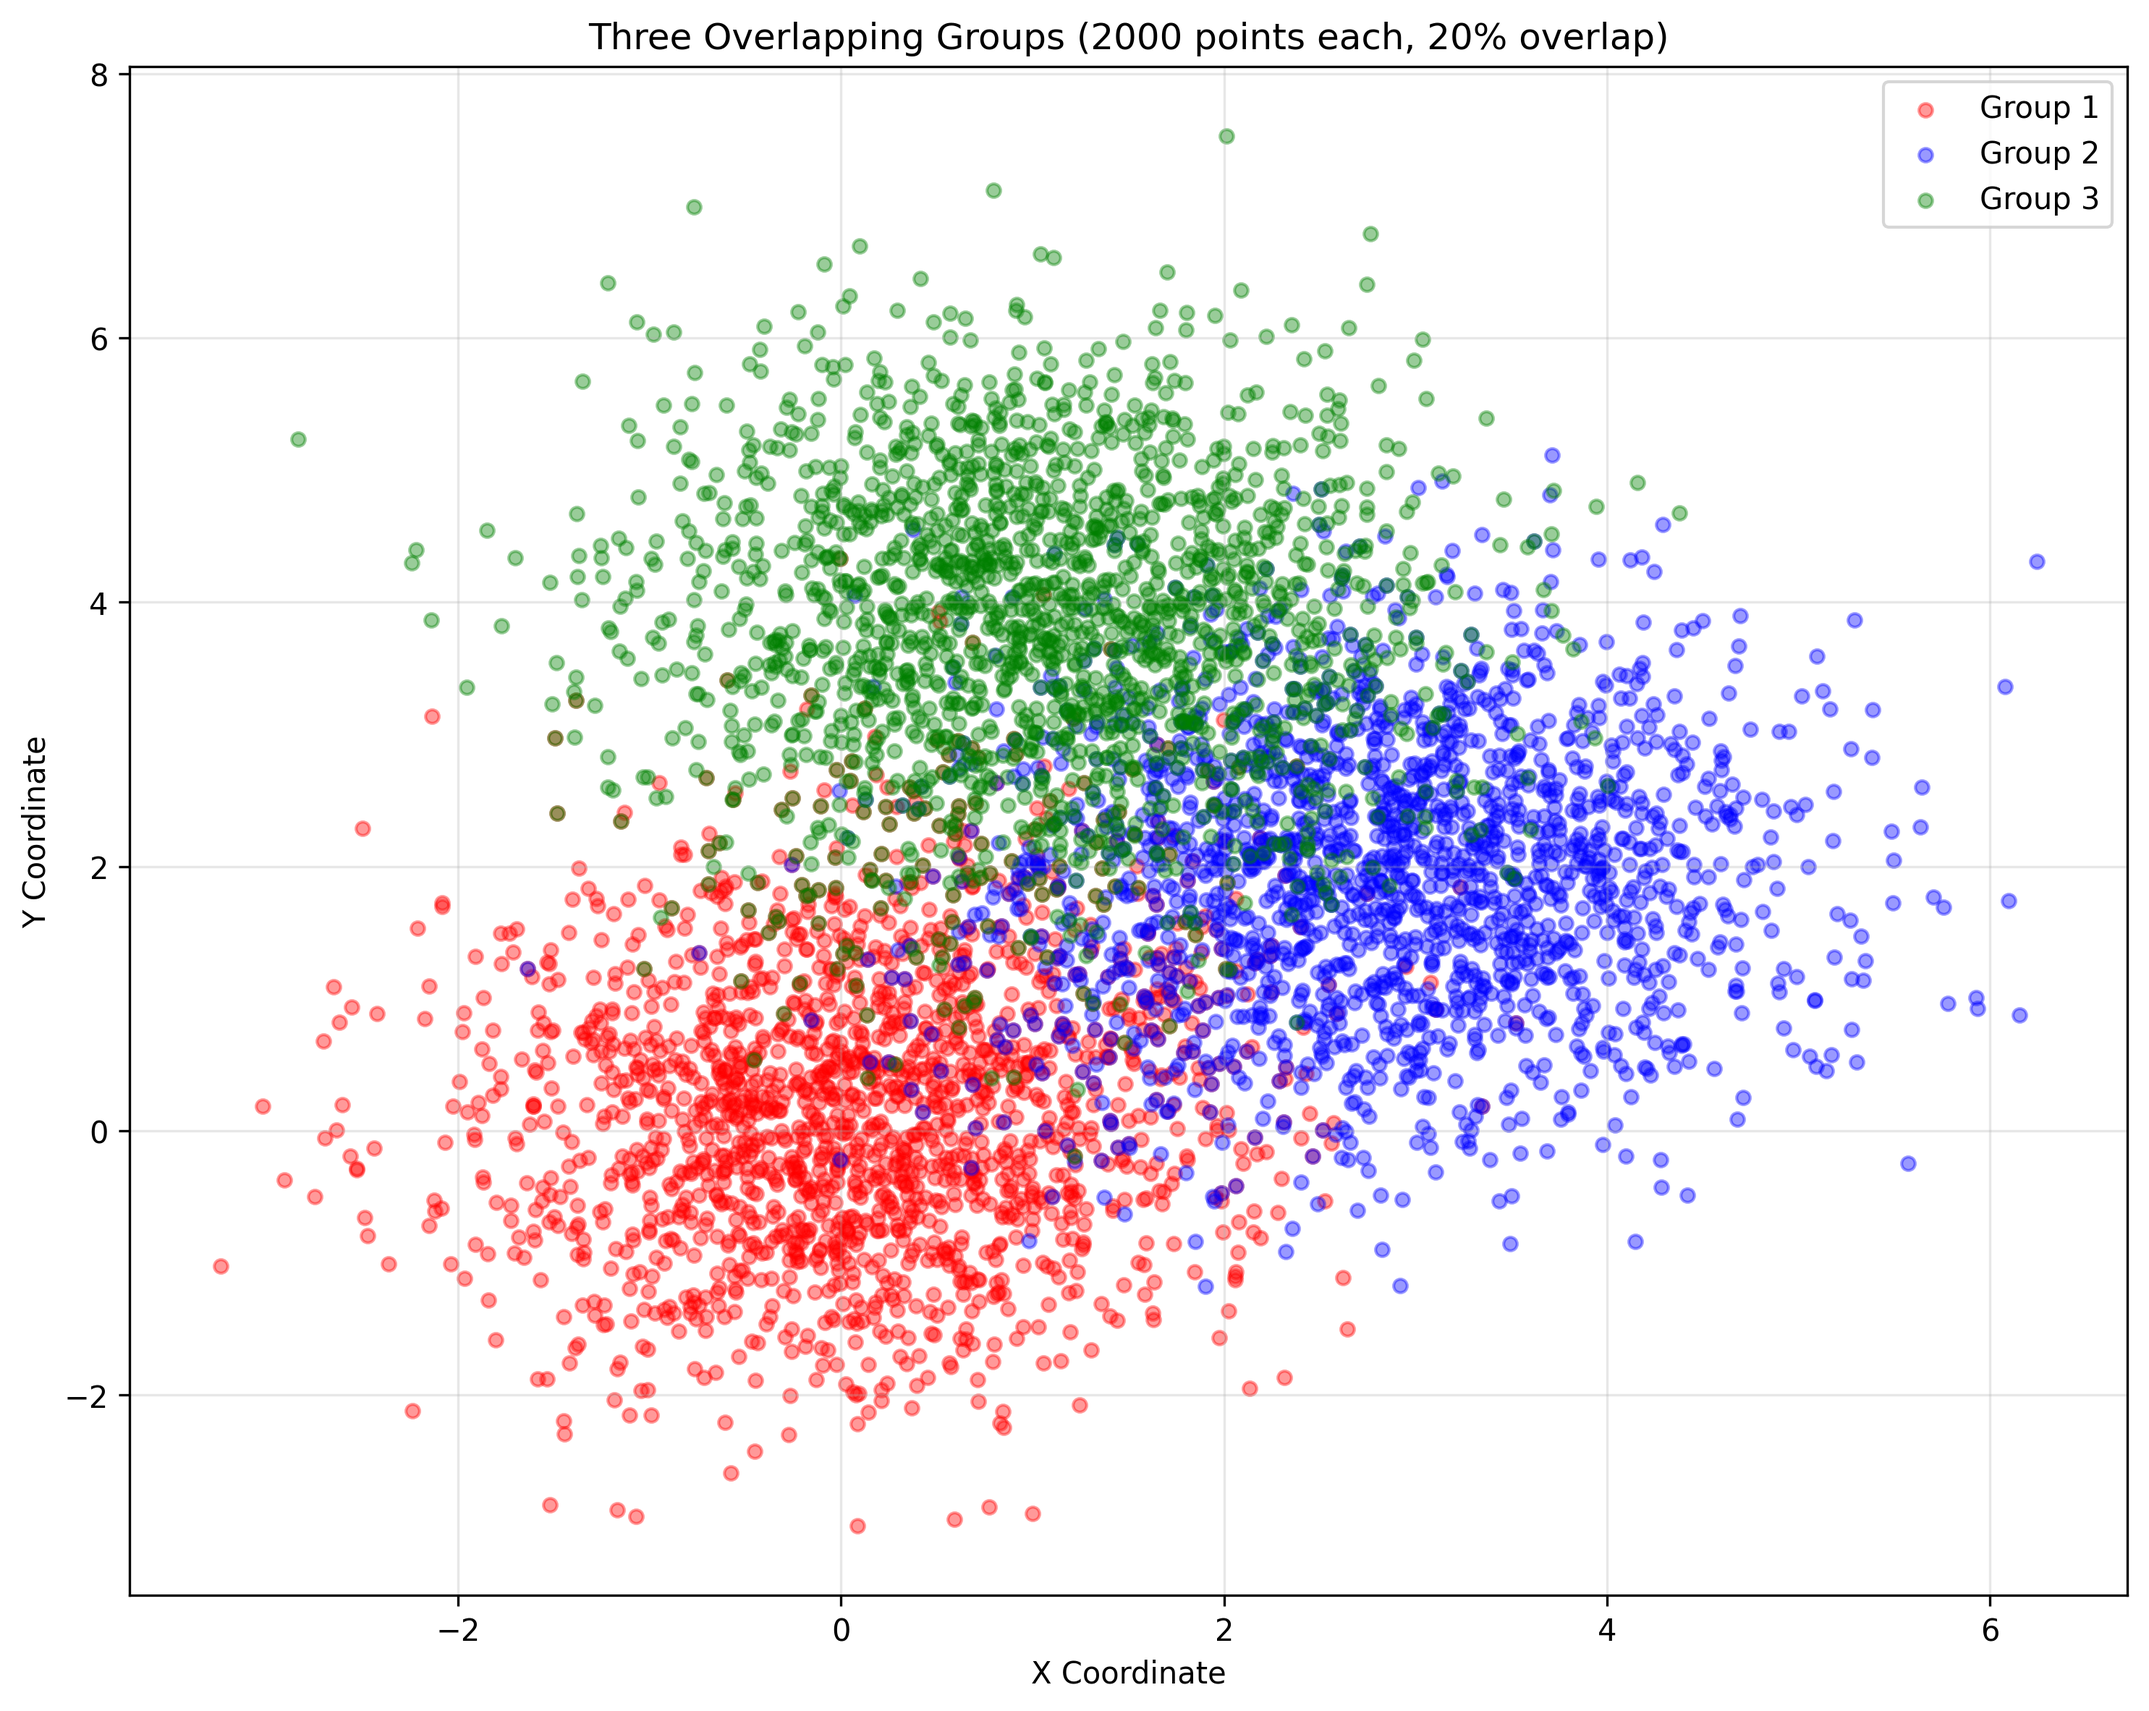
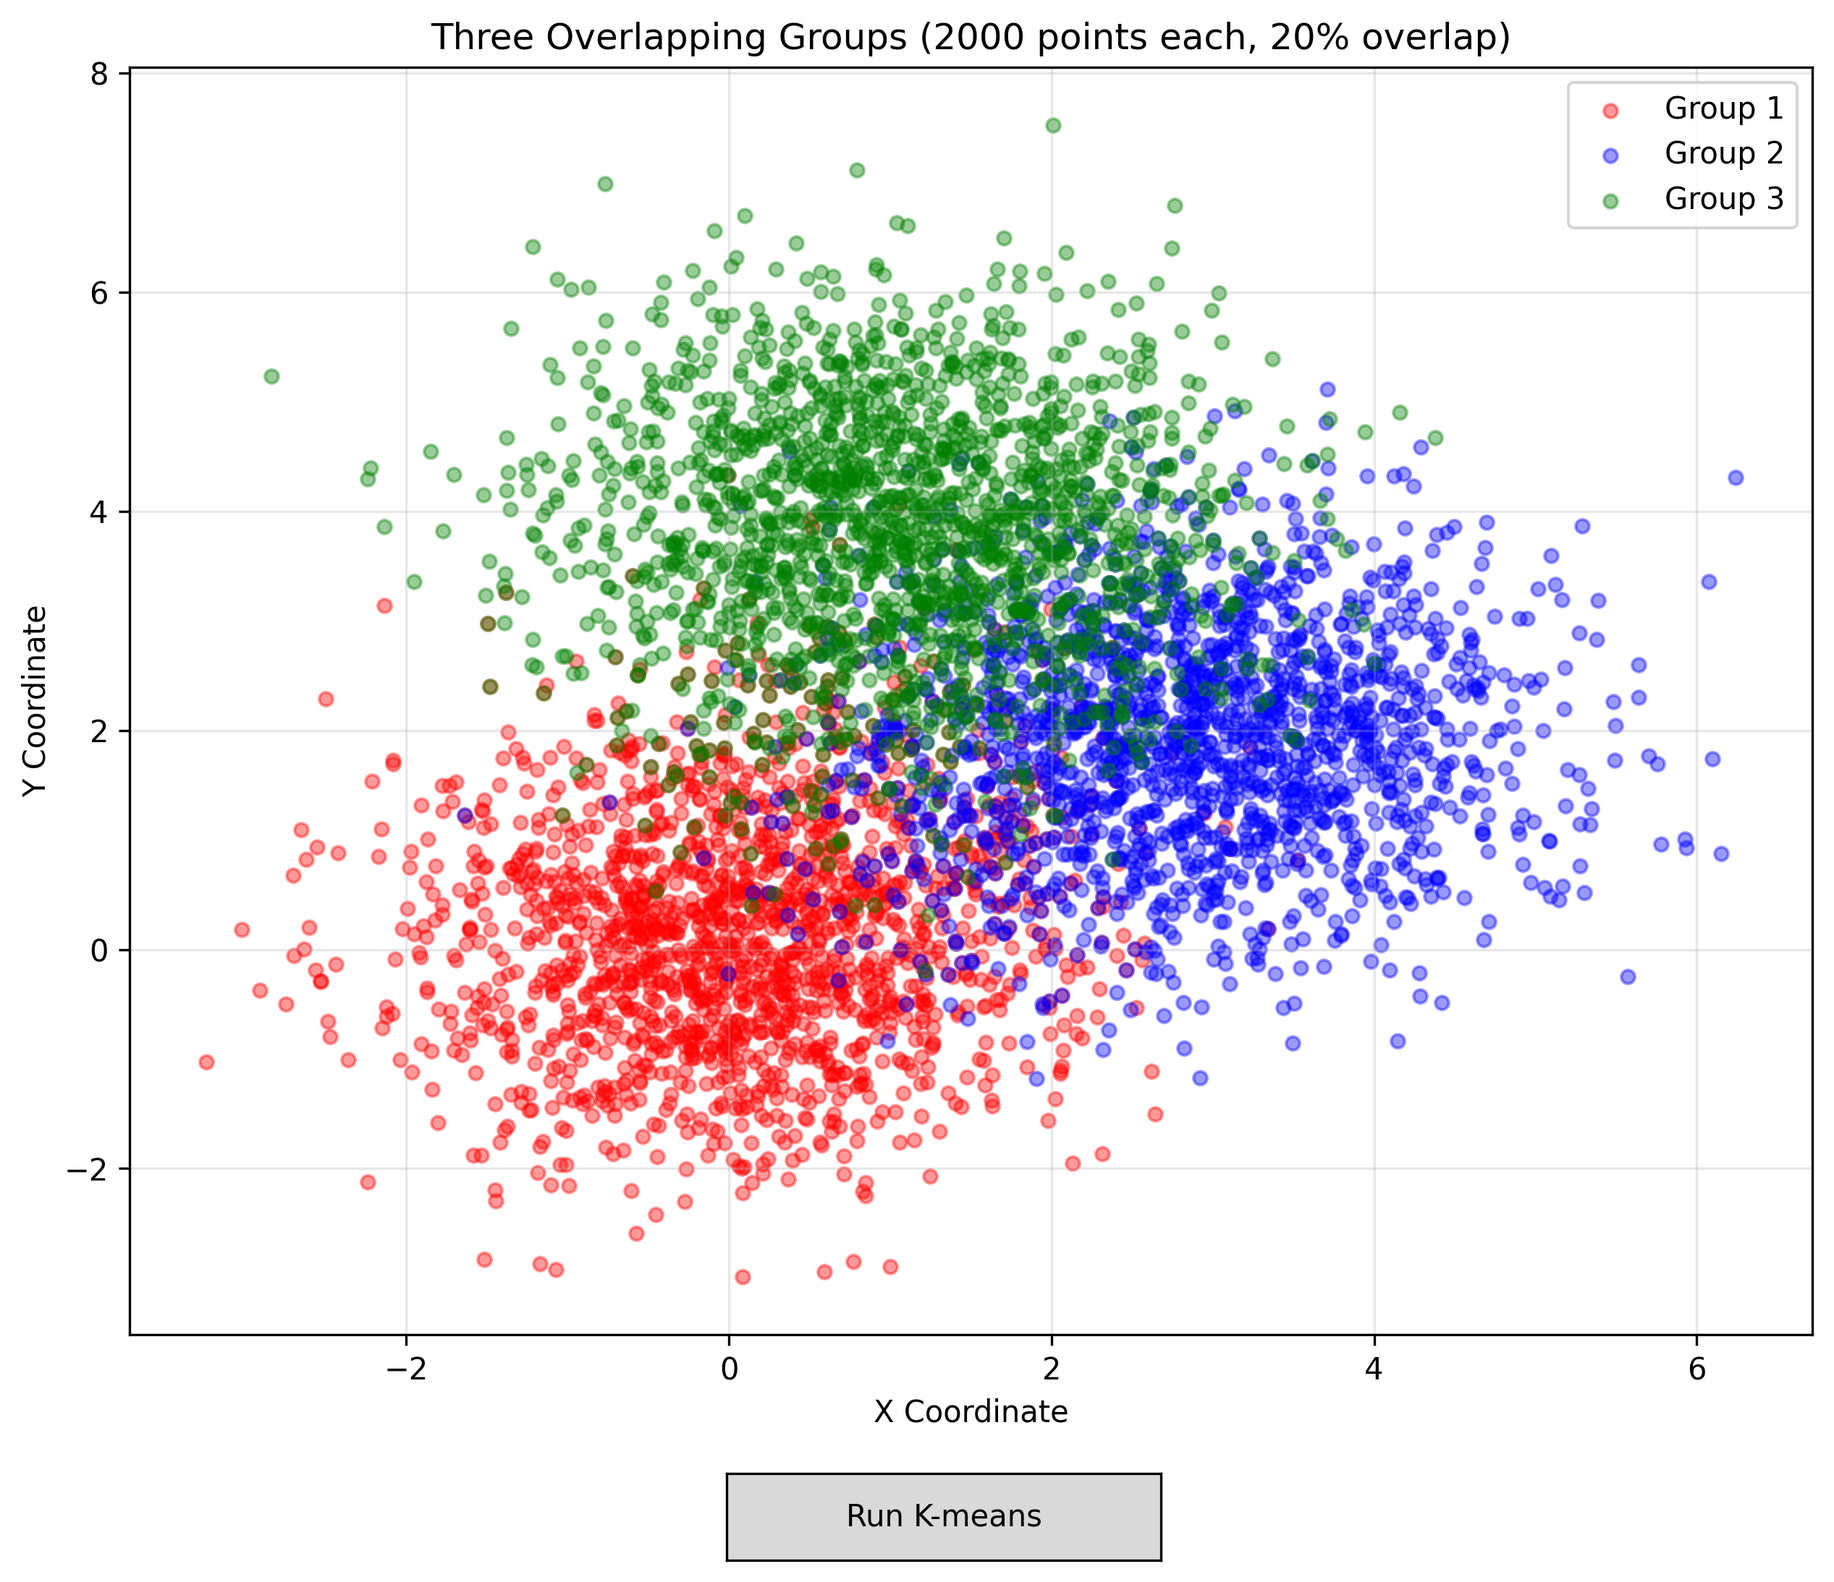
with k-means

diff --git a/main.py b/main.py
@@ -7,6 +7,7 @@ and visualizes them using Matplotlib.
 
 import numpy as np
 import matplotlib.pyplot as plt
+from matplotlib.widgets import Button
 
 
 def generate_overlapping_groups(n_points=2000, overlap_percentage=0.20, random_seed=42):
@@ -75,9 +76,60 @@ def generate_overlapping_groups(n_points=2000, overlap_percentage=0.20, random_s
     return group1, group2, group3, overlap_all
 
 
+def kmeans_clustering(data, k=3, max_iterations=5):
+    """
+    Perform k-means clustering on the data.
+
+    Parameters:
+    -----------
+    data : numpy array
+        Array of shape (n_samples, 2) containing 2D coordinates
+    k : int
+        Number of clusters (default: 3)
+    max_iterations : int
+        Maximum number of iterations (default: 5)
+
+    Returns:
+    --------
+    centroids : numpy array
+        Final centroid positions of shape (k, 2)
+    labels : numpy array
+        Cluster assignment for each data point
+    """
+    # Initialize centroids randomly from the data points
+    np.random.seed(42)
+    random_indices = np.random.choice(len(data), k, replace=False)
+    centroids = data[random_indices].copy()
+
+    print(f"\nRunning K-means with K={k} for {max_iterations} iterations...")
+
+    for iteration in range(max_iterations):
+        # Assign each point to the nearest centroid
+        distances = np.zeros((len(data), k))
+        for i in range(k):
+            distances[:, i] = np.sqrt(np.sum((data - centroids[i])**2, axis=1))
+
+        labels = np.argmin(distances, axis=1)
+
+        # Update centroids
+        new_centroids = np.zeros_like(centroids)
+        for i in range(k):
+            cluster_points = data[labels == i]
+            if len(cluster_points) > 0:
+                new_centroids[i] = cluster_points.mean(axis=0)
+            else:
+                new_centroids[i] = centroids[i]
+
+        centroids = new_centroids
+        print(f"  Iteration {iteration + 1}/{max_iterations} completed")
+
+    print("K-means clustering completed!\n")
+    return centroids, labels
+
+
 def visualize_groups(group1, group2, group3, overlap_points):
     """
-    Visualize the three groups of data points.
+    Visualize the three groups of data points with interactive K-means button.
 
     Parameters:
     -----------
@@ -86,19 +138,82 @@ def visualize_groups(group1, group2, group3, overlap_points):
     overlap_points : numpy array
         Array containing overlapping points
     """
-    fig, ax = plt.subplots(figsize=(10, 8))
+    # Combine all data points into a single array
+    all_data = np.vstack([group1, group2, group3])
 
-    # Plot all groups with transparency to show overlap
-    ax.scatter(group1[:, 0], group1[:, 1], c='red', alpha=0.4, s=20, label='Group 1')
-    ax.scatter(group2[:, 0], group2[:, 1], c='blue', alpha=0.4, s=20, label='Group 2')
-    ax.scatter(group3[:, 0], group3[:, 1], c='green', alpha=0.4, s=20, label='Group 3')
+    fig, ax = plt.subplots(figsize=(10, 8))
+    plt.subplots_adjust(bottom=0.15)  # Make room for button
+
+    # Initial plot - all groups with transparency to show overlap
+    scatter1 = ax.scatter(group1[:, 0], group1[:, 1], c='red', alpha=0.4, s=20, label='Group 1')
+    scatter2 = ax.scatter(group2[:, 0], group2[:, 1], c='blue', alpha=0.4, s=20, label='Group 2')
+    scatter3 = ax.scatter(group3[:, 0], group3[:, 1], c='green', alpha=0.4, s=20, label='Group 3')
     ax.set_xlabel('X Coordinate')
     ax.set_ylabel('Y Coordinate')
     ax.set_title('Three Overlapping Groups (2000 points each, 20% overlap)')
     ax.legend()
     ax.grid(True, alpha=0.3)
 
-    plt.tight_layout()
+    # Store references for updating
+    state = {
+        'original_scatters': [scatter1, scatter2, scatter3],
+        'kmeans_scatter': None,
+        'centroids_scatter': None,
+        'showing_kmeans': False
+    }
+
+    def on_kmeans_button_click(event):
+        """Callback function for K-means button."""
+        if not state['showing_kmeans']:
+            # Run K-means clustering
+            centroids, labels = kmeans_clustering(all_data, k=3, max_iterations=5)
+
+            # Hide original groups
+            for scatter in state['original_scatters']:
+                scatter.set_visible(False)
+
+            # Show K-means clusters
+            colors = ['purple', 'orange', 'cyan']
+            for i in range(3):
+                cluster_points = all_data[labels == i]
+                if state['kmeans_scatter'] is None:
+                    ax.scatter(cluster_points[:, 0], cluster_points[:, 1],
+                              c=colors[i], alpha=0.5, s=20, label=f'Cluster {i+1}')
+                else:
+                    ax.scatter(cluster_points[:, 0], cluster_points[:, 1],
+                              c=colors[i], alpha=0.5, s=20, label=f'Cluster {i+1}')
+
+            # Plot centroids
+            state['centroids_scatter'] = ax.scatter(centroids[:, 0], centroids[:, 1],
+                                                     c='black', marker='X', s=200,
+                                                     edgecolors='white', linewidths=2,
+                                                     label='Centroids', zorder=5)
+
+            ax.set_title('K-means Clustering Results (K=3, 5 iterations)')
+            ax.legend()
+            state['showing_kmeans'] = True
+            button.label.set_text('Show Original')
+        else:
+            # Clear K-means results
+            for collection in ax.collections[3:]:  # Remove K-means scatters and centroids
+                collection.remove()
+
+            # Show original groups again
+            for scatter in state['original_scatters']:
+                scatter.set_visible(True)
+
+            ax.set_title('Three Overlapping Groups (2000 points each, 20% overlap)')
+            ax.legend()
+            state['showing_kmeans'] = False
+            button.label.set_text('Run K-means')
+
+        plt.draw()
+
+    # Add button for K-means clustering
+    button_ax = plt.axes([0.4, 0.02, 0.2, 0.05])
+    button = Button(button_ax, 'Run K-means')
+    button.on_clicked(on_kmeans_button_click)
+
     plt.savefig('overlapping_groups.png', dpi=300, bbox_inches='tight')
     print("Visualization saved as 'overlapping_groups.png'")
     plt.show()
